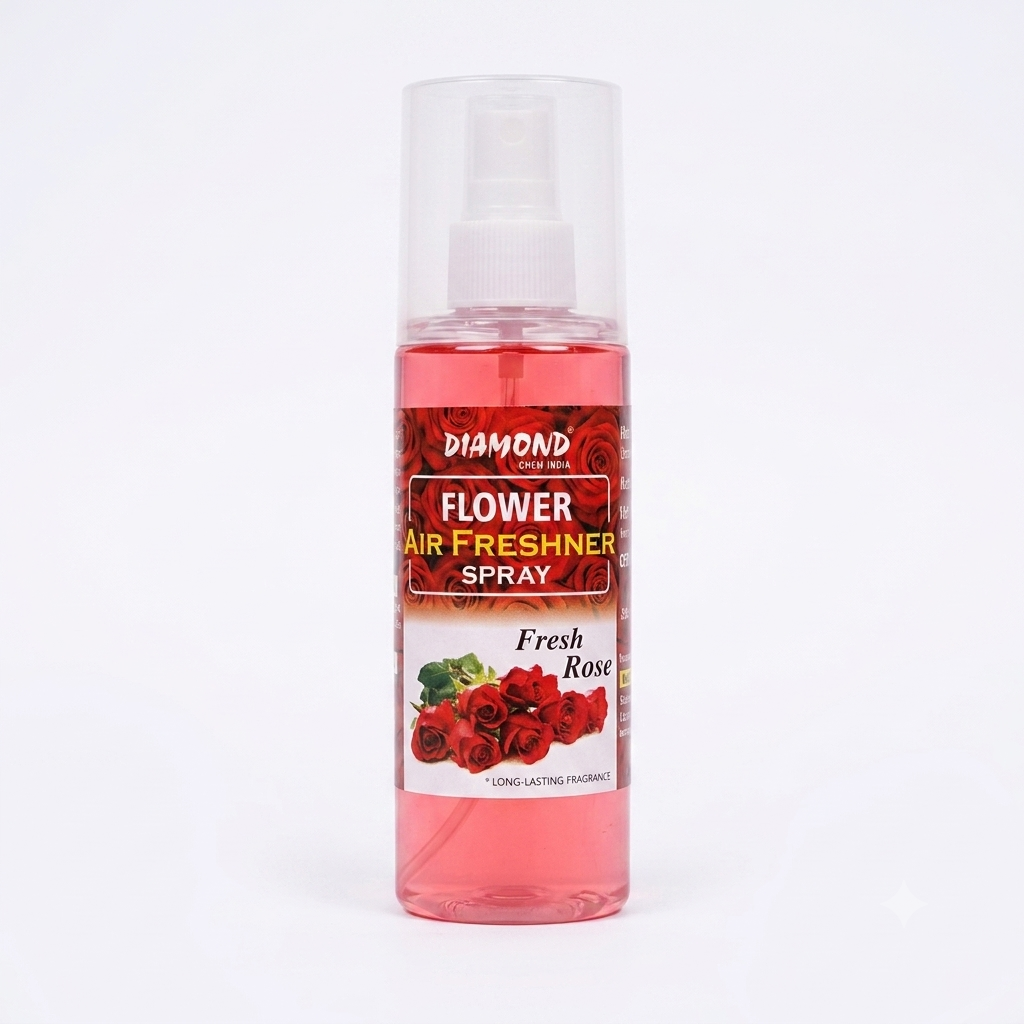
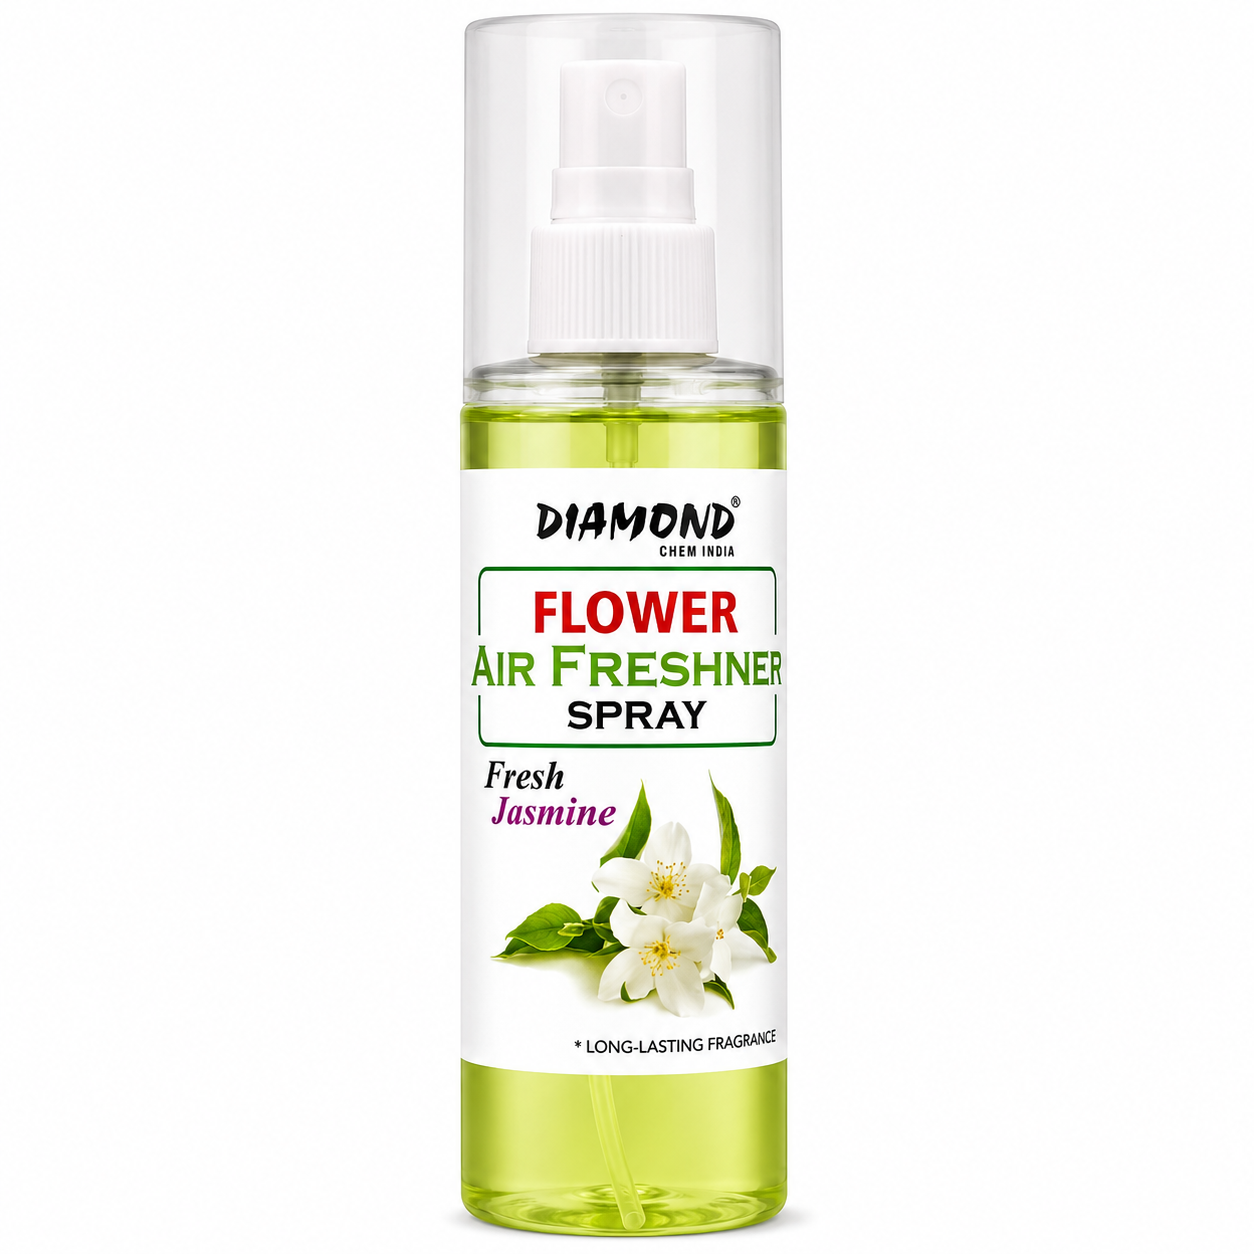
jhjhj

Changed region(s): [[0.3438, 0.0, 0.6562, 1.0], [0.4375, 0.125, 0.5312, 0.1875]]

diff --git a/frontend/src/pages/Home.jsx b/frontend/src/pages/Home.jsx
@@ -26,7 +26,7 @@ export default function Home() {
       <section className="relative overflow-hidden bg-brand-slate text-white">
         <div className="absolute inset-0">
           <img
-            src="https://images.pexels.com/photos/14908957/pexels-photo-14908957.jpeg"
+            src="https://images.pexels.com/photos/26954168/pexels-photo-26954168.jpeg"
             alt="Workshop"
             className="h-full w-full object-cover opacity-40"
           />